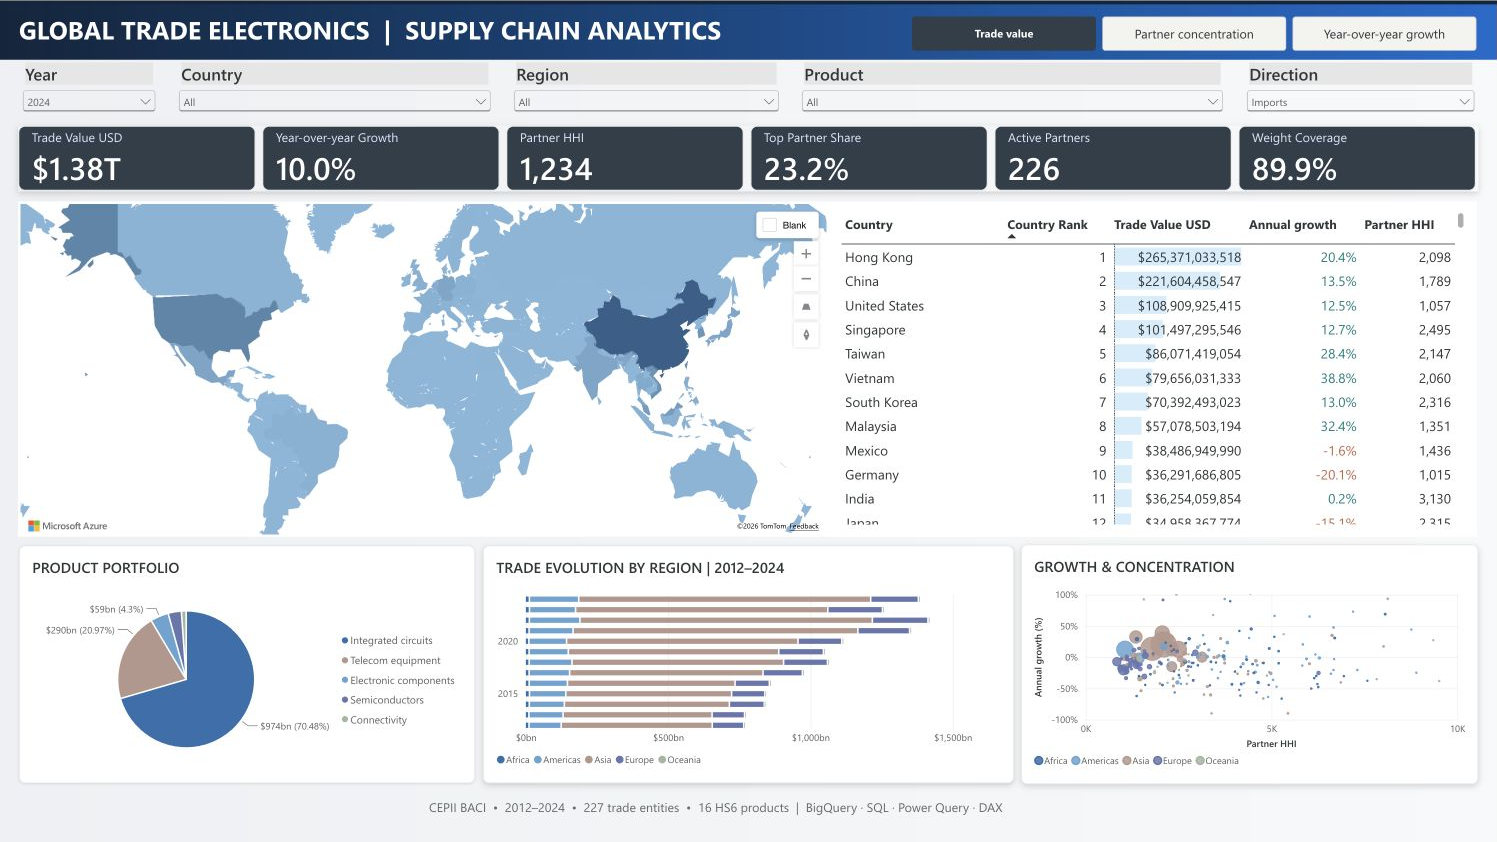
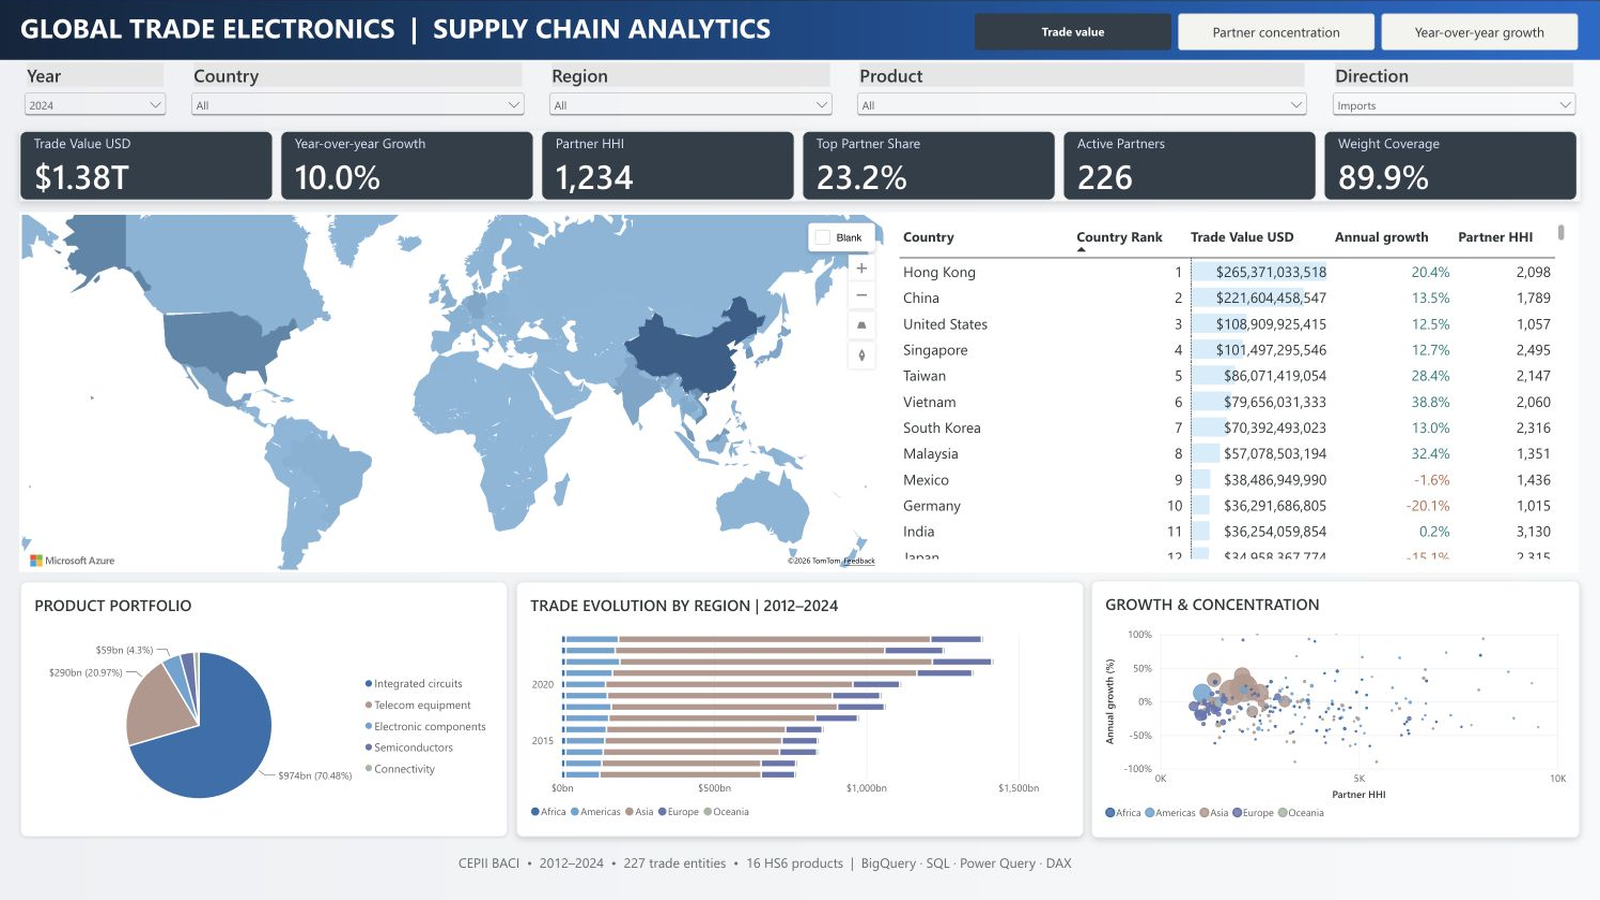
Update project title, cover and public report link

diff --git a/README.md b/README.md
@@ -1,10 +1,10 @@
-# Global Trade & Supply Chain Analytics
+# Power BI Global Trade Electronic Analytics
 
 An end-to-end personal analytics project by Victor Cabaleiro Valado, connecting **BigQuery, SQL, Power Query, DAX and Power BI** to explore global electronics and telecommunications trade.
 
 ![Trade value view](docs/screenshots/trade-value.png)
 
-[Open Power BI report (authenticated access)](https://app.powerbi.com/groups/22ef7458-6c58-46dd-b0f7-73e14c727807/reports/6112f7e8-a23c-4997-ad60-0dfb299e2d23/bb9c35bd2a550ad30ff1)
+[Open Power BI report (public interactive report)](https://app.powerbi.com/view?r=eyJrIjoiOTllMDUzMmYtYWIyZC00NDc0LTk0YTYtYzU5MmRlMDVlYWJlIiwidCI6Ijc5Yzc0MmM0LWU2MWMtNGZhNS1iZTg5LWEzY2I1NjZhODBkMSIsImMiOjN9)
 
 ## Business questions
 
@@ -44,4 +44,4 @@ The native report is authored in Power BI Service. Local model/design files are 
 
 BACI source values are thousands of current USD and metric tons; reporting values convert USD by multiplying by 1,000. Imports and exports are alternative perspectives, not additive global totals. Missing weight is not zero. Nominal trade growth is not inflation-adjusted growth. HHI describes concentration, not the probability of disruption. These country-level annual trade data do not provide company revenue, inventory, shipment delays, OTIF or real-time logistics. No predictive AI model is claimed.
 
-Public report access has not been enabled: the native link may require permission. The cover is a real screenshot with Trade value selected.
+The native report is published to the public web and opens without signing in. The cover is a real screenshot with Trade value selected.
